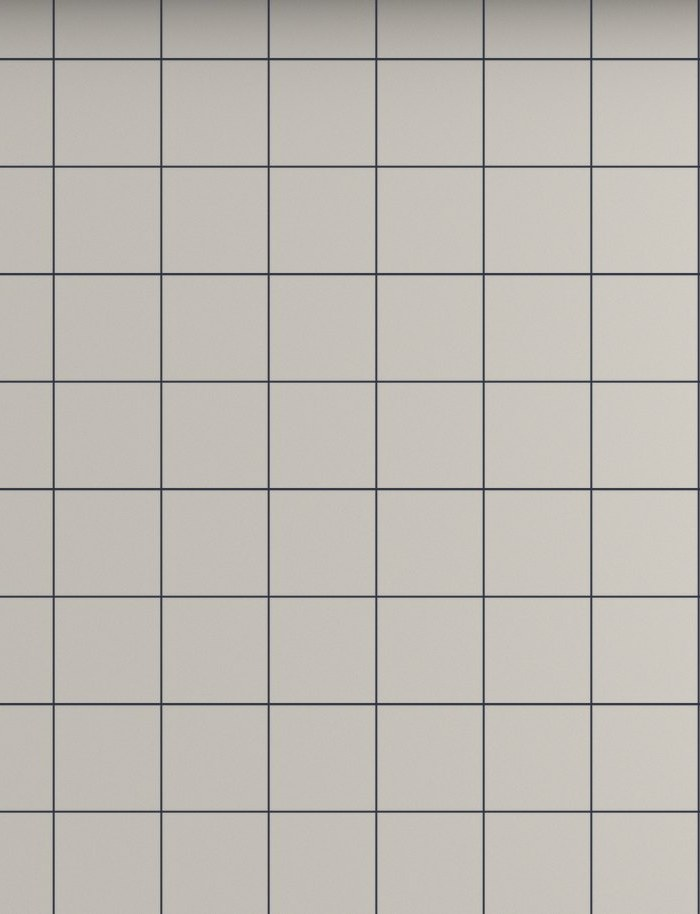
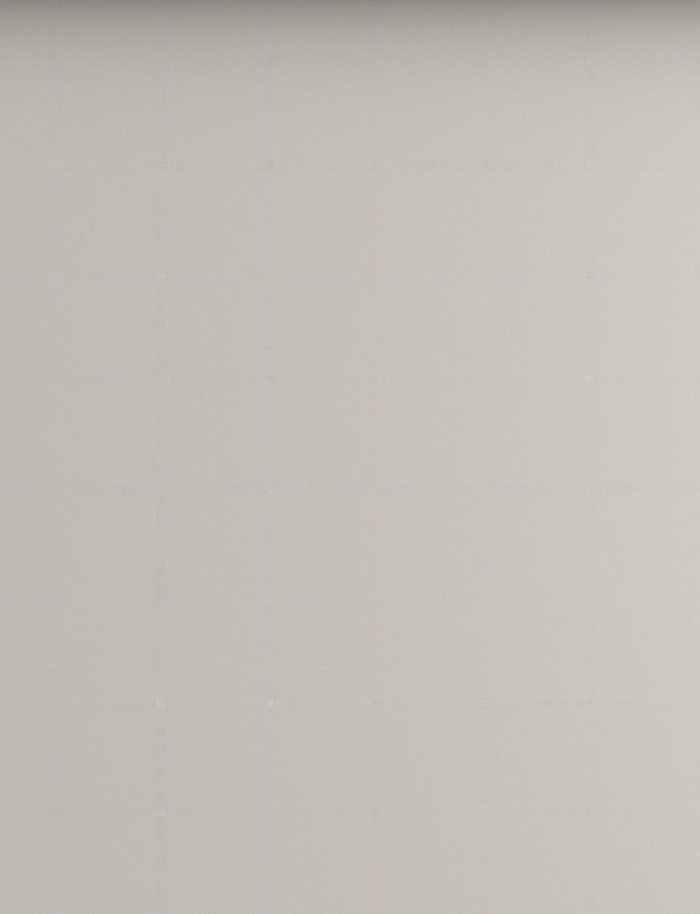
The desk's tile lines are drawn, so they stay sharp up close
The plate's grid was 1 px per box px, so it smeared on retina and when
the camera comes down to the desk. desk-clean.jpg keeps only the plate's
light and shade; the lines go back on as gradients at the plate's own
spacing (2 px every 107.5, 10 cm) and are multiplied, so they still
darken with the light. The extension past the plate's edge carries on
the same grid.

Changed region(s): [[0.0, 0.0, 1.0, 1.0], [0.66, 0.8578, 0.72, 0.919]]

diff --git a/app/globals.css b/app/globals.css
@@ -1186,8 +1186,21 @@ body::after {
    camera on the way down, which browsers draw as garbage. */
 .desk-wall  { top: calc(-144 * var(--u)); height: calc(800 * var(--u));
               background-image: url("/scene/desk3d/wall.jpg"); transform: translateZ(calc(-269 * var(--u))); }
+/* The desk's tiles are drawn, not photographed: desk-clean.jpg is the
+   plate's light and shade with its grid lines taken out, and the lines go
+   back on top as gradients — 2 px every 107.5 (10 cm), from 53.75 across
+   and 58.3 out, measured off the plate — so they stay sharp however close
+   the camera comes. Multiplied, so they darken with the light under them. */
 .desk-top   { top: calc(656 * var(--u)); height: calc(914 * var(--u));
-              background-image: url("/scene/desk3d/desk.jpg");
+              --tile: calc(107.5 * var(--u)); --line: rgb(58, 60, 74);
+              background-image:
+                linear-gradient(90deg, var(--line) 0 calc(2 * var(--u)), transparent 0),
+                linear-gradient(var(--line) 0 calc(2 * var(--u)), transparent 0),
+                url("/scene/desk3d/desk-clean.jpg");
+              background-size: var(--tile) 100%, 100% var(--tile), 100% 100%;
+              background-position: calc(52.75 * var(--u)) 0, 0 calc(57.3 * var(--u)), 0 0;
+              background-repeat: repeat-x, repeat-y, no-repeat;
+              background-blend-mode: multiply, multiply, normal;
               transform-origin: 50% 0; transform: translateZ(calc(-269 * var(--u))) rotateX(90deg); }
 .desk-ply   { top: calc(656 * var(--u)); height: calc(27 * var(--u));
               background-image: url("/scene/desk3d/ply.jpg"); transform: translateZ(calc(645 * var(--u))); }
@@ -1196,7 +1209,10 @@ body::after {
    mirrored, so the seam is its own reflection. */
 .desk-ext { left: calc(2172.5 * var(--u)); width: calc(700 * var(--u)); }
 .desk-wall.desk-ext { background-image: url("/scene/desk3d/wall-ext.jpg"); }
-.desk-top.desk-ext  { background-image: url("/scene/desk3d/desk-ext.jpg"); }
+.desk-top.desk-ext  { background-image:
+                linear-gradient(90deg, var(--line) 0 calc(2 * var(--u)), transparent 0),
+                linear-gradient(var(--line) 0 calc(2 * var(--u)), transparent 0),
+                url("/scene/desk3d/desk-ext.jpg"); }
 .desk-ply.desk-ext  { background-image: url("/scene/desk3d/ply-ext.jpg"); }
 .desk-under { top: calc(683 * var(--u)); height: calc(1200 * var(--u));
               background: linear-gradient(#1e1a16, #100e0c calc(60 * var(--u)));
